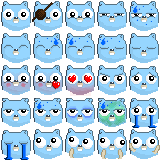
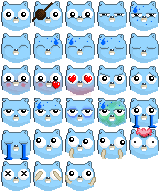
Add mind-blown, no-peeking and dead emoji

diff --git a/normalize-alpha.go b/normalize-alpha.go
@@ -1,0 +1,117 @@
+package main
+
+import (
+	"errors"
+	"flag"
+	"fmt"
+	"image"
+	"image/png"
+	"os"
+	"path/filepath"
+)
+
+func handleFile(name string) error {
+	var source *image.NRGBA
+	{
+		file, err := os.Open(name)
+		if err != nil {
+			return err
+		}
+
+		m, err := png.Decode(file)
+		if err != nil {
+			file.Close()
+			return err
+		}
+		file.Close()
+
+		if rgba, ok := m.(*image.NRGBA); !ok {
+			return errors.New("not RGBA")
+		} else {
+			source = rgba
+		}
+	}
+
+	background := [4]uint8{0, 0, 0, 0}
+	if source.Pix[3] == 0 {
+		copy(background[:], source.Pix[:4])
+	}
+
+	for i := 0; i < len(source.Pix); i += 4 {
+		if source.Pix[i+3] == 0 {
+			copy(source.Pix[i:i+4], background[:])
+		}
+	}
+
+	{
+		file, err := os.Create(name)
+		if err != nil {
+			return err
+		}
+		defer file.Close()
+
+		if err := png.Encode(file, source); err != nil {
+			return err
+		}
+	}
+
+	return nil
+}
+
+func main() {
+	flag.Parse()
+
+	if flag.Arg(0) == "" {
+		flag.Usage()
+		os.Exit(1)
+	}
+
+	matches, err := filepath.Glob(flag.Arg(0))
+	check(err)
+	for _, match := range matches {
+		err := handleFile(match)
+		if err != nil {
+			fmt.Printf("%v: %v\n", match, err)
+		}
+	}
+	/*
+		infile, err := os.Open(flag.Arg(0))
+		check(err)
+		defer infile.Close()
+
+		atlasfile, err := os.Open(flag.Arg(1))
+		check(err)
+		defer atlasfile.Close()
+
+		source, err := png.Decode(infile)
+		check(err)
+
+		var atlas Atlas
+		check(json.NewDecoder(atlasfile).Decode(&atlas))
+
+		for _, frametag := range atlas.Meta.FrameTags {
+			frame := atlas.Frames[frametag.From].Frame
+
+			target := image.NewRGBA(image.Rect(0, 0, frame.W, frame.H))
+			if !*transparent {
+				draw.Draw(target, target.Bounds(), &image.Uniform{color.White}, image.ZP, draw.Src)
+			}
+
+			draw.Draw(target, target.Bounds(), source, image.Pt(frame.X, frame.Y), draw.Src)
+
+			outname := filepath.Join(flag.Arg(2), "gopher-"+frametag.Name+".png")
+			os.MkdirAll(filepath.Dir(outname), 0755)
+			outfile, err := os.Create(outname)
+			check(err)
+			check(png.Encode(outfile, target))
+			outfile.Close()
+		}
+	*/
+}
+
+func check(err error) {
+	if err != nil {
+		fmt.Fprintf(os.Stderr, "failed: %v\n", err)
+		os.Exit(1)
+	}
+}

diff --git a/twitterify.go b/twitterify.go
@@ -16,7 +16,7 @@ import (
 
 var (
 	width       = flag.Int("width", 506, "target min width")
-	height      = flag.Int("height", 0, "target min height")
+	height      = flag.Int("height", 128, "target min height")
 	repeat      = flag.Int("repeat", 3, "repeat count")
 	transparent = flag.Bool("transparent", false, "transparent background")
 	duplicate   = flag.Bool("duplicate", false, "use duplication instead of repeating animation")
@@ -130,9 +130,9 @@ func handlePng(infile io.Reader, outfile io.Writer) error {
 
 	target := image.NewRGBA(image.Rectangle{image.ZP, size})
 	if !*transparent {
-		draw.Draw(target, target.Bounds(), &image.Uniform{color.White}, image.ZP, draw.Src)
+		draw.Draw(target, target.Bounds(), &image.Uniform{color.White}, image.ZP, draw.Over)
 	}
-	draw.Draw(target, source.Bounds().Add(offset), source, image.ZP, draw.Src)
+	draw.Draw(target, source.Bounds().Add(offset), source, image.ZP, draw.Over)
 
 	err = png.Encode(outfile, target)
 	if err != nil {
